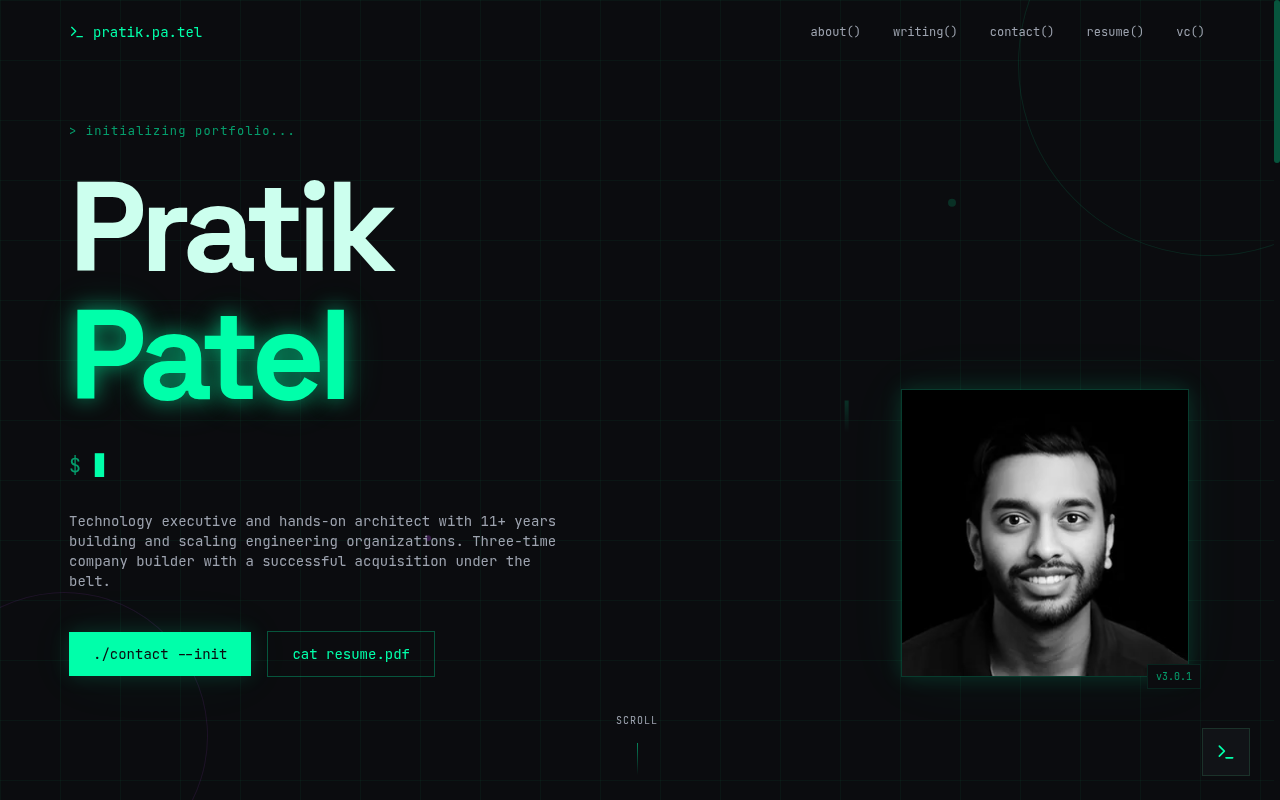
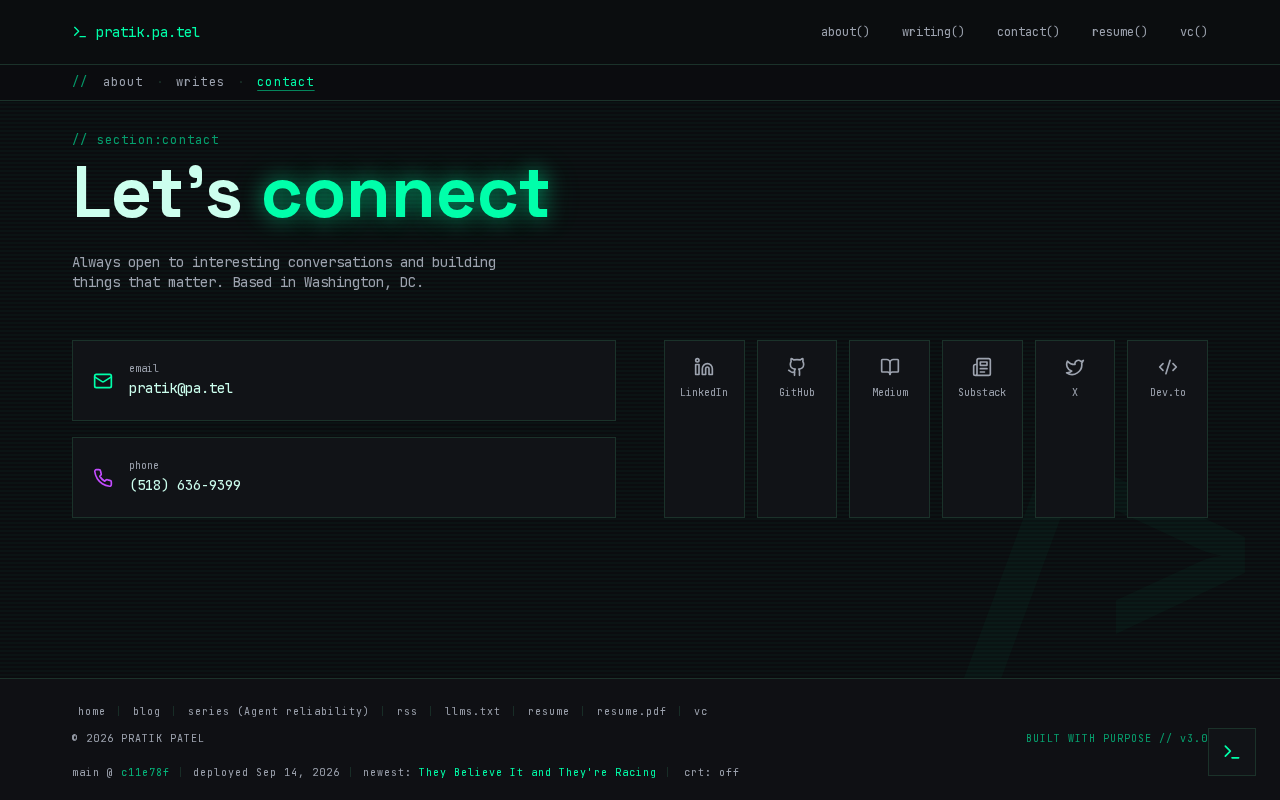
fix(home): CI glyph coverage, drop YRS chip, unify footer chrome
Space Grotesk 400 with font-display:optional was not preloaded, so CI
glyph coverage painted Liberation Serif for characters the subset has.
Keep optional on the preloaded 700 LCP face only; leave 400 on swap.

Remove the hero gutter "11+ YRS EXP" chip. Share one muted wash on the
PageShell foot wrapper and drop StatusBar's separate background so
sitemap + status read as one bottom chrome block.

diff --git a/src/styles/fonts.css b/src/styles/fonts.css
@@ -110,19 +110,19 @@
 }
 
 /*
- * Space Grotesk uses font-display: optional, not swap.
+ * Space Grotesk 700 uses font-display: optional; 400 stays on swap.
  *
- * The home LCP element is the hero h1 in this family. With swap, Chrome paints
- * the H1 in a fallback first (which can be FCP) and then updates LCP when the
- * webfont swaps in. On throttled mobile that update is most of the LCP: lab
- * 2026-09-14 measured ~2.9s LCP with ~75% render delay on that H1, while the
- * same page's FCP had improved vs 2026-09-08. Optional keeps a late face from
- * rewriting LCP: if the preloaded file is not ready in the short block window,
- * the navigation keeps the fallback for its lifetime instead of swapping.
+ * The home LCP element is the hero h1.font-display (weight 700). With swap,
+ * Chrome paints that H1 in a fallback first (which can be FCP) and then updates
+ * LCP when the webfont swaps in. On throttled mobile that update is most of the
+ * LCP: lab 2026-09-14 measured ~2.9s LCP with ~75% render delay on that H1.
+ * Optional on 700 keeps a late display-face swap from rewriting LCP when the
+ * preloaded latin file is not ready in the short block window.
  *
- * JetBrains Mono stays on swap. It paints body chrome, not the LCP element, and
- * a late mono swap does not move the LCP timestamp the way a late display-face
- * swap does.
+ * Weight 400 (blog body, terminal prose) stays on swap. It is not preloaded, and
+ * optional there made CI glyph coverage paint Liberation Serif for characters
+ * the subset actually has. JetBrains Mono stays on swap for the same reason it
+ * always did: body chrome, not the LCP element.
  */
 /* Space Grotesk 700 normal — latin */
 @font-face {
@@ -149,7 +149,7 @@
   font-family: 'Space Grotesk';
   font-style: normal;
   font-weight: 400;
-  font-display: optional;
+  font-display: swap;
   src: url('/fonts/space-grotesk-400-latin.woff2') format('woff2');
   unicode-range: U+0000-00FF, U+0131, U+0152-0153, U+02BB-02BC, U+02C6, U+02DA, U+02DC, U+0304, U+0308, U+0329, U+2000-206F, U+20AC, U+2122, U+2191, U+2193, U+2212, U+2215, U+FEFF, U+FFFD;
 }
@@ -159,7 +159,7 @@
   font-family: 'Space Grotesk';
   font-style: normal;
   font-weight: 400;
-  font-display: optional;
+  font-display: swap;
   src: url('/fonts/space-grotesk-400-latin-ext.woff2') format('woff2');
   unicode-range: U+0100-02BA, U+02BD-02C5, U+02C7-02CC, U+02CE-02D7, U+02DD-02FF, U+0304, U+0308, U+0329, U+1D00-1DBF, U+1E00-1E9F, U+1EF2-1EFF, U+2020, U+20A0-20AB, U+20AD-20C0, U+2113, U+2C60-2C7F, U+A720-A7FF;
 }

diff --git a/src/lib/__tests__/font-loading.test.ts b/src/lib/__tests__/font-loading.test.ts
@@ -39,10 +39,12 @@ describe("font loading", () => {
   it("never blocks first paint on a face download", () => {
     // `block` FOITs for up to 3s and would hand back the delay self-hosting
     // exists to remove. JetBrains Mono (body chrome) stays on `swap` so late
-    // bytes still paint the brand face. Space Grotesk (home LCP / headings)
+    // bytes still paint the brand face. Space Grotesk 700 (home LCP / headings)
     // uses `optional`: a late display-face swap was rewriting LCP after FCP
     // on throttled mobile (lab 2026-09-14: ~2.9s LCP, ~75% render delay on the
-    // hero h1). Optional keeps that update from happening.
+    // hero h1). Optional keeps that update from happening. Weight 400 stays on
+    // swap: it is not preloaded, and optional made glyph-coverage e2e paint the
+    // system stack for characters the subset has.
     const faces = fonts.match(/@font-face\s*\{[^}]*\}/g) ?? [];
     expect(faces.length).toBeGreaterThan(0);
     expect(faces.filter((f) => /font-display:\s*block/.test(f))).toEqual([]);
@@ -51,7 +53,12 @@ describe("font loading", () => {
     const mono = faces.filter((f) => /font-family:\s*'JetBrains Mono'/.test(f));
     expect(space.length).toBeGreaterThan(0);
     expect(mono.length).toBeGreaterThan(0);
-    expect(space.filter((f) => !/font-display:\s*optional/.test(f))).toEqual([]);
+    const space700 = space.filter((f) => /font-weight:\s*700/.test(f));
+    const space400 = space.filter((f) => /font-weight:\s*400/.test(f));
+    expect(space700.length).toBeGreaterThan(0);
+    expect(space400.length).toBeGreaterThan(0);
+    expect(space700.filter((f) => !/font-display:\s*optional/.test(f))).toEqual([]);
+    expect(space400.filter((f) => !/font-display:\s*swap/.test(f))).toEqual([]);
     expect(mono.filter((f) => !/font-display:\s*swap/.test(f))).toEqual([]);
   });
 

diff --git a/src/components/chrome/__tests__/PageShell.test.tsx b/src/components/chrome/__tests__/PageShell.test.tsx
@@ -13,7 +13,7 @@ vi.mock("@/hooks/useBuildInfo", () => ({
 }));
 
 describe("PageShell foot chrome", () => {
-  it("keeps footer and status under one border so they do not double-rule", () => {
+  it("keeps footer and status under one border and wash so they read as one block", () => {
     const { container } = render(
       <MemoryRouter>
         <PageShell breadcrumbs={[{ label: "blog", to: "/blog/" }]}>
@@ -24,14 +24,16 @@ describe("PageShell foot chrome", () => {
 
     expect(screen.getByRole("navigation", { name: "Sitemap" })).toBeInTheDocument();
     expect(screen.getByLabelText("Build status")).toBeInTheDocument();
+    expect(screen.getByRole("status", { name: "Build status" })).toBeInTheDocument();
 
     const foot = container.querySelector(".border-t.border-border");
     expect(foot).not.toBeNull();
+    expect(foot?.className).toMatch(/bg-muted\/20/);
     expect(foot?.querySelector("footer")).not.toBeNull();
     expect(foot?.querySelector('[aria-label="Build status"]')).not.toBeNull();
-    // Status itself must not add a second top border.
-    expect(foot?.querySelector('[aria-label="Build status"]')?.className).not.toMatch(
-      /border-t/
-    );
+    // Status itself must not add a second top border or its own wash.
+    const statusClass = foot?.querySelector('[aria-label="Build status"]')?.className ?? "";
+    expect(statusClass).not.toMatch(/border-t/);
+    expect(statusClass).not.toMatch(/bg-muted/);
   });
 });

diff --git a/src/components/chrome/SiteFooter.tsx b/src/components/chrome/SiteFooter.tsx
@@ -9,16 +9,16 @@ import { chromeLink, chromeMeta, chromeSep } from "./chrome-tokens";
  * source. The HTML resume is the primary link; the PDF stays as a secondary
  * download.
  *
- * Border lives on PageShell's foot wrapper with StatusBar so the two strips
- * share one rule instead of fighting on mobile.
+ * Border and muted wash live on PageShell's foot wrapper with StatusBar so the
+ * two strips read as one bottom chrome block instead of stacked footers.
  */
 const SiteFooter = () => {
   const year = new Date().getFullYear();
   const resumePdfHref = `${import.meta.env.BASE_URL}resume.pdf`;
 
   return (
-    <footer className="pt-5 pb-3 sm:pt-6 sm:pb-4">
-      <div className="container flex flex-col gap-2.5">
+    <footer className="pt-4 pb-1 sm:pt-5 sm:pb-1">
+      <div className="container flex flex-col gap-2">
         <nav aria-label="Sitemap" className="print:hidden">
           <ul className={`flex flex-wrap items-center gap-x-1 gap-y-1 ${chromeMeta}`}>
             <li>
@@ -90,7 +90,7 @@ const SiteFooter = () => {
           </ul>
         </nav>
         <div
-          className={`flex flex-col sm:flex-row items-start sm:items-center justify-between gap-1.5 ${chromeMeta}`}
+          className={`flex flex-col sm:flex-row items-start sm:items-center justify-between gap-1 ${chromeMeta}`}
         >
           <span>© {year} PRATIK PATEL</span>
           <span className="text-primary/60 print:text-primary">

diff --git a/src/components/chrome/StatusBar.tsx b/src/components/chrome/StatusBar.tsx
@@ -13,8 +13,9 @@ import { chromeAccent, chromeAccentSoft, chromeMeta, chromeSep } from "./chrome-
  * Also hosts the CRT noise toggle: off by default, remembered in localStorage,
  * forced off under prefers-reduced-motion.
  *
- * Lives under SiteFooter inside PageShell's single foot border so mobile does
- * not stack two competing `border-t` rules.
+ * Lives under SiteFooter inside PageShell's single foot border and muted wash.
+ * No second background or top border — a separate wash was what made mobile
+ * read this as a second footer under the sitemap.
  */
 const StatusBar = () => {
   const { shortSha, deployed, newestTitle, newestSlug } = useBuildInfo();
@@ -24,11 +25,12 @@ const StatusBar = () => {
 
   return (
     <div
+      role="status"
       aria-label="Build status"
-      className="status-bar bg-muted/25 print:hidden"
+      className="status-bar pb-3 pt-0.5 sm:pb-3.5 print:hidden"
     >
       <div
-        className={`container min-h-8 py-1.5 flex flex-wrap items-center gap-x-2 gap-y-0.5 ${chromeMeta}`}
+        className={`container min-h-7 flex flex-wrap items-center gap-x-2 gap-y-0.5 ${chromeMeta}`}
       >
         <span className="shrink-0">
           main @{" "}

diff --git a/src/components/chrome/PageShell.tsx b/src/components/chrome/PageShell.tsx
@@ -24,7 +24,9 @@ type PageShellProps = {
  * page content, sitemap footer, and status strip. Keeps breadcrumbs / footer /
  * status out of every page file as copy-paste.
  *
- * Footer + status share one top border so mobile does not stack two rules.
+ * Footer + status share one top border and one muted wash so mobile reads a
+ * single bottom chrome block instead of a sitemap strip plus a second status
+ * footer.
  */
 const PageShell = ({
   children,
@@ -38,7 +40,7 @@ const PageShell = ({
       {jumpRail ? <SectionJumpRail /> : null}
       <div className="flex-1">{children}</div>
       {terminal ? <InteractiveTerminal /> : null}
-      <div className="border-t border-border print:border-border">
+      <div className="border-t border-border bg-muted/20 print:border-border">
         <SiteFooter />
         <StatusBar />
       </div>

diff --git a/e2e/hero-ornament-collision.spec.ts b/e2e/hero-ornament-collision.spec.ts
@@ -3,8 +3,7 @@ import { test, expect } from "./fixtures";
 /**
  * The hero's gutter ornament never paints on top of the hero copy.
  *
- * `Hero.tsx` pins a status block ("SYSTEM ONLINE" / "WASHINGTON, DC" / "11+ YRS
- * EXP") to the section at `absolute top-24 left-8`, outside the centred content
+ * `Hero.tsx` pins a status block ("SYSTEM ONLINE" / "WASHINGTON, DC") to the section at `absolute top-24 left-8`, outside the centred content
  * column. That only works while the column has actually left a gutter wide
  * enough to hold it, and the reveal breakpoint is the only thing enforcing it.
  * It shipped as `lg` (1024px), where there is no gutter — the column starts at

diff --git a/src/components/Hero.tsx b/src/components/Hero.tsx
@@ -245,10 +245,6 @@ const Hero = () => {
             <span className="w-1.5 h-1.5 bg-accent rounded-full" />
             <span>WASHINGTON, DC</span>
           </div>
-          <div className="flex items-center gap-2">
-            <span className="w-1.5 h-1.5 bg-primary/50 rounded-full" />
-            <span>11+ YRS EXP</span>
-          </div>
         </m.div>
       </m.div>
 
